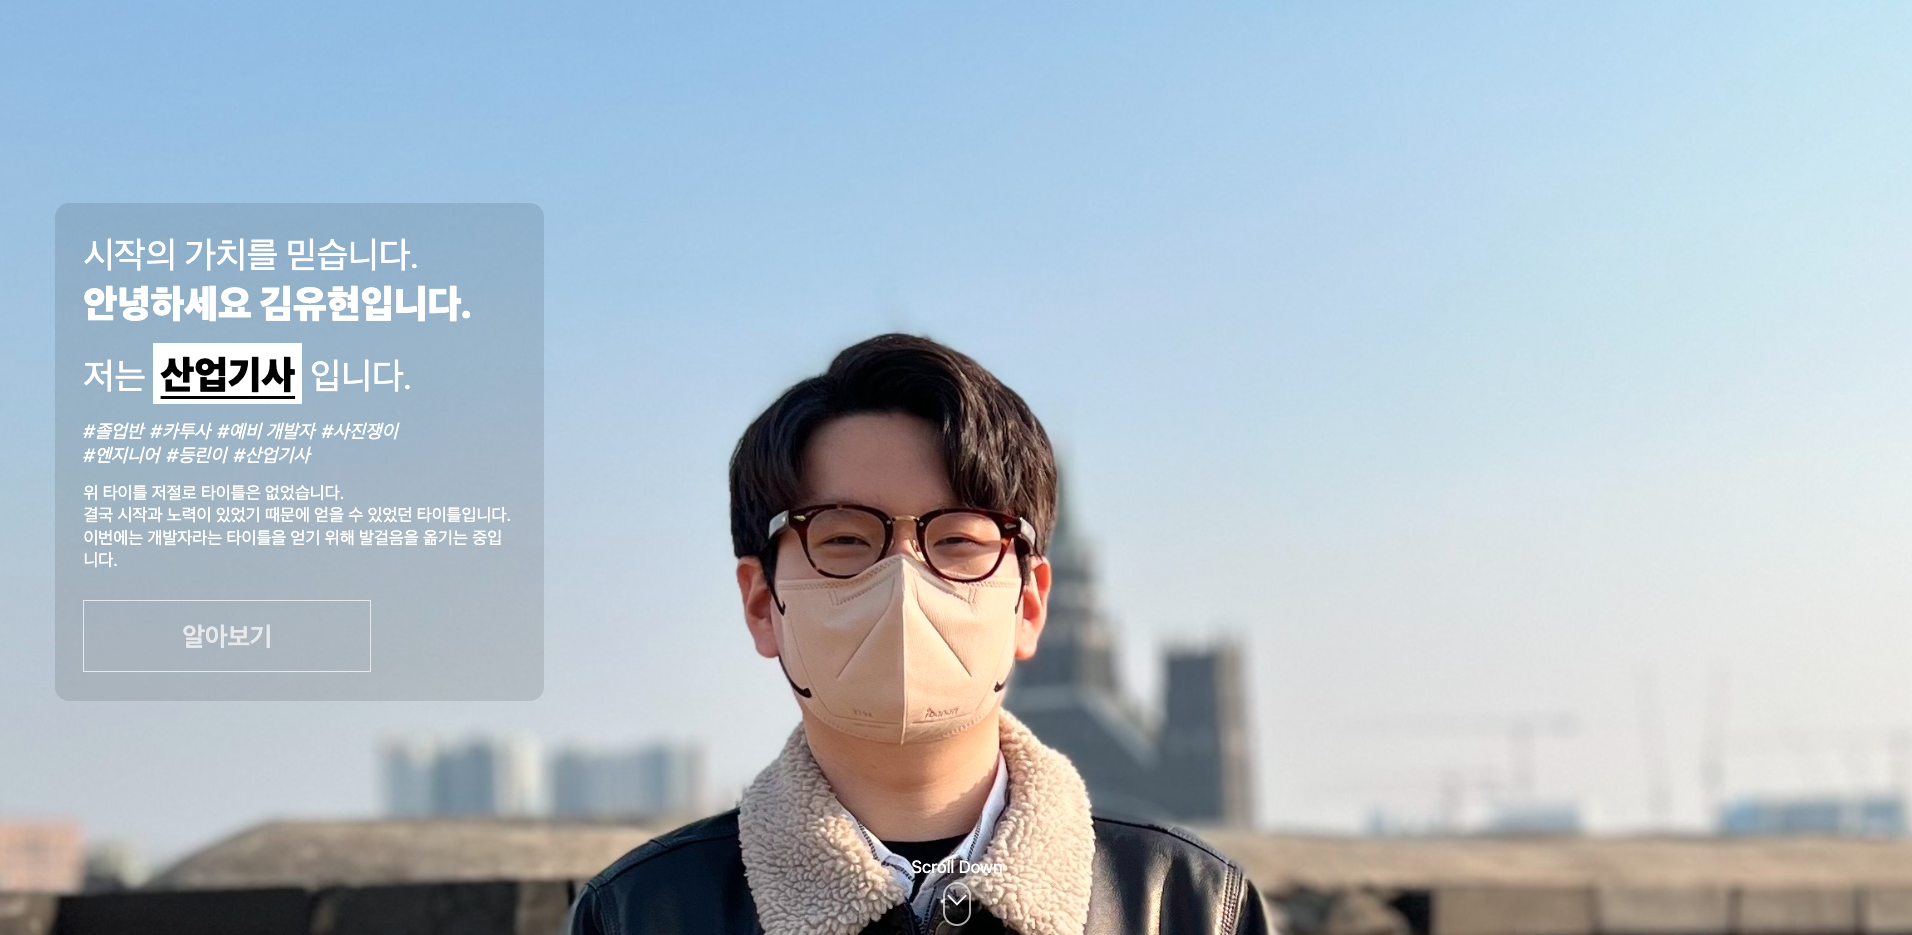
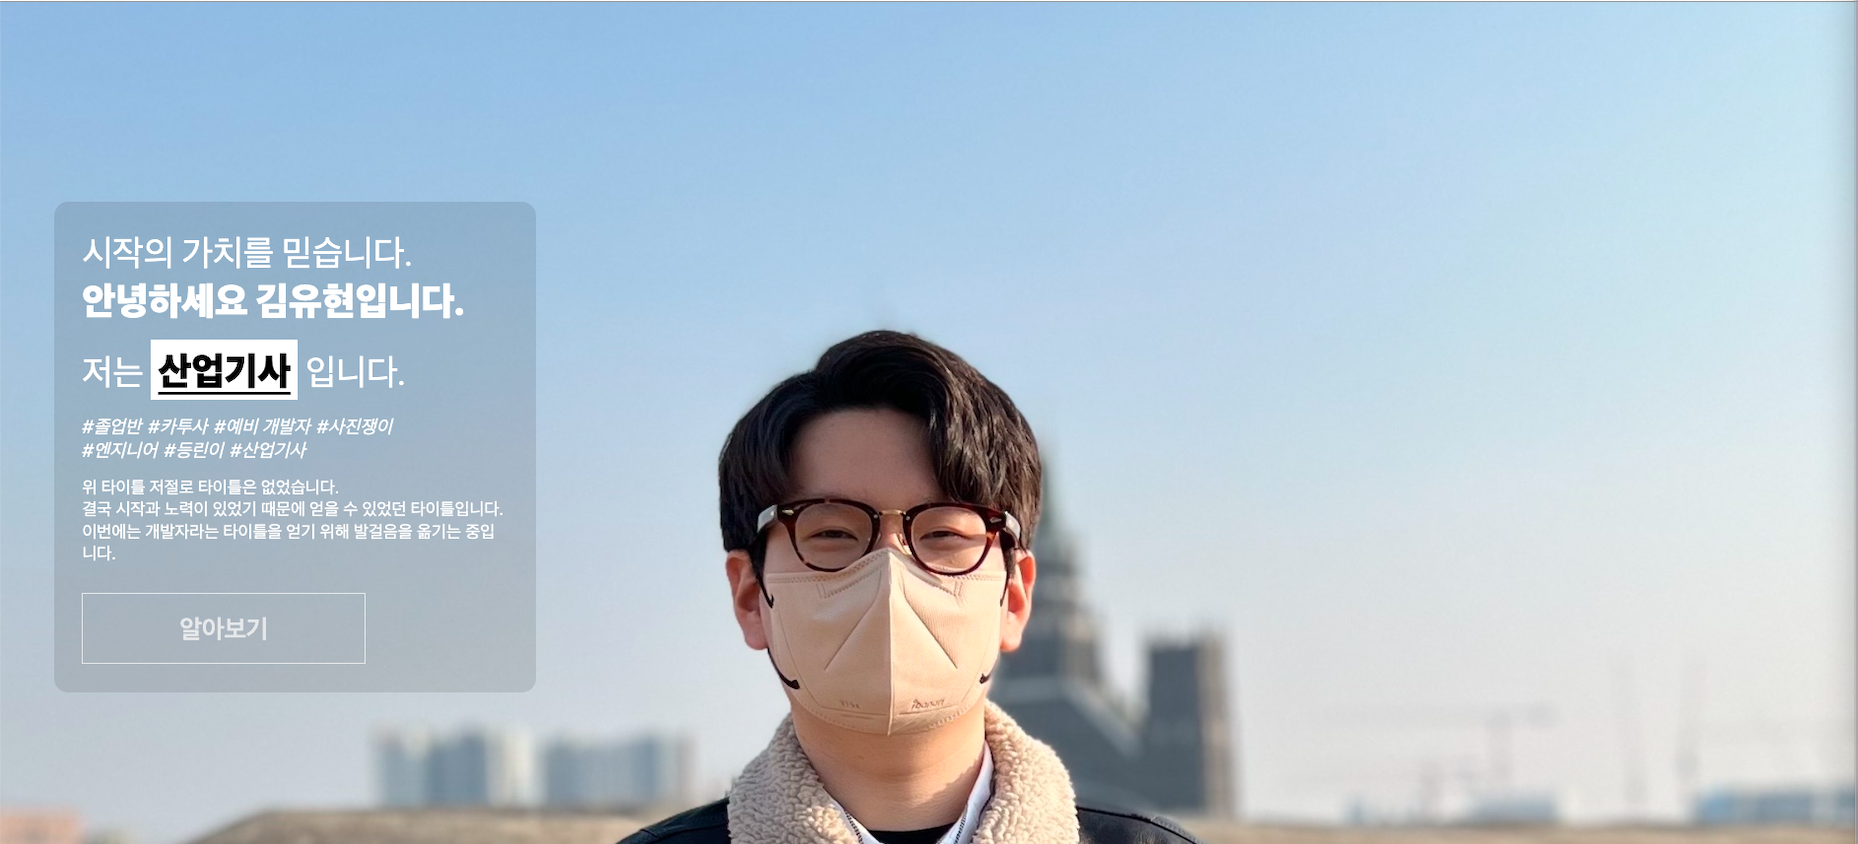
[add] scroll up button

Changed region(s): [[0.0, 0.0, 1.0, 1.0]]

diff --git a/src/components/IDoComp/IDoFrame.js b/src/components/IDoComp/IDoFrame.js
@@ -16,52 +16,54 @@ const IDoFrame = ({ project_data }) => {
   }, []);
 
   return (
-    <div className={classes.ido_container}>
-      {project_data.map(data => (
-        <section
-          key={data.id}
-          className={classes.ido_slide}
-          style={{
-            backgroundImage: `URL(${require(`../../assets/images/${data.img_name}`)})`,
-          }}
-        >
-          <div className={classes.ido_card_wrapper}>
-            <h1>&nbsp;{data.title}</h1>
-            <li>
-              <span>&nbsp;요약:</span> {data.summary}
-            </li>
-            <li>
-              <span>&nbsp;기간:</span> {data.duration}
-            </li>
-            <li>
-              <span>&nbsp;인원:</span> {data.personnel}
-            </li>
-            <li>
-              &nbsp;담당파트:
-              <ul>
-                {data.assigned.map((work, i) => (
-                  <li key={i}>&nbsp;{work}</li>
-                ))}
-              </ul>
-            </li>
-            <li>
-              &nbsp;바로가기&nbsp;
-              <div className={classes.ido_link}>
-                <a href={data.link}>
-                  <FaGithub alt="github" /> 깃허브&nbsp;
-                </a>
-                <a href={data.link1}>
-                  <SiNotion alt="github" /> 코드설명&nbsp;
-                </a>
-                <a href={data.link2}>
-                  <HiOutlineDocumentText alt="deployed" /> 시연 페이지&nbsp;
-                </a>
-              </div>
-            </li>
-          </div>
-        </section>
-      ))}
-    </div>
+    <>
+      <div className={classes.ido_container}>
+        {project_data.map(data => (
+          <section
+            key={data.id}
+            className={classes.ido_slide}
+            style={{
+              backgroundImage: `URL(${require(`../../assets/images/${data.img_name}`)})`,
+            }}
+          >
+            <div className={classes.ido_card_wrapper}>
+              <h1>&nbsp;{data.title}</h1>
+              <li>
+                <span>&nbsp;요약:</span> {data.summary}
+              </li>
+              <li>
+                <span>&nbsp;기간:</span> {data.duration}
+              </li>
+              <li>
+                <span>&nbsp;인원:</span> {data.personnel}
+              </li>
+              <li>
+                &nbsp;담당파트:
+                <ul>
+                  {data.assigned.map((work, i) => (
+                    <li key={i}>&nbsp;{work}</li>
+                  ))}
+                </ul>
+              </li>
+              <li>
+                &nbsp;바로가기&nbsp;
+                <div className={classes.ido_link}>
+                  <a href={data.link}>
+                    <FaGithub alt="github" /> 깃허브&nbsp;
+                  </a>
+                  <a href={data.link1}>
+                    <SiNotion alt="github" /> 코드설명&nbsp;
+                  </a>
+                  <a href={data.link2}>
+                    <HiOutlineDocumentText alt="deployed" /> 시연 페이지&nbsp;
+                  </a>
+                </div>
+              </li>
+            </div>
+          </section>
+        ))}
+      </div>
+    </>
   );
 };
 

diff --git a/src/pages/IDo/IDo.js b/src/pages/IDo/IDo.js
@@ -4,12 +4,14 @@ import NavContext from '../../context/nav-context';
 import IDoFrame from '../../components/IDoComp/IDoFrame';
 import PROJECT_MOCKDATA from '../../data/mock.json';
 import ScrollButton from '../../components/UI/Buttons/ScrollButton';
+import ScrollUpButton from '../../components/UI/Buttons/ScrollUpButton';
 
 const project_data = PROJECT_MOCKDATA.project;
 
 const IDo = () => {
   const navCtx = useContext(NavContext);
   const [scrollTop, setScrollTop] = useState(0);
+  const [scrollUp, setScrollUp] = useState(false);
 
   const onScroll = () => {
     const winScroll = document.documentElement.scrollTop;
@@ -24,6 +26,14 @@ const IDo = () => {
   useEffect(() => {
     window.addEventListener('scroll', onScroll);
   }, []);
+
+  useEffect(() => {
+    if (scrollTop === 100) {
+      setScrollUp(true);
+    } else {
+      setScrollUp(false);
+    }
+  }, [scrollTop]);
 
   useEffect(() => {
     navCtx.scrollHandler(1000);
@@ -43,6 +53,7 @@ const IDo = () => {
           <ScrollButton />
         </div>
       </section>
+      {scrollUp && <ScrollUpButton />}
     </>
   );
 };

diff --git a/src/components/UI/Buttons/ScrollUpButton.module.scss b/src/components/UI/Buttons/ScrollUpButton.module.scss
@@ -1,0 +1,58 @@
+.scroll_button_wrapper {
+  position: fixed;
+  bottom: 0;
+  left: 50%;
+  z-index: 2;
+  height: 7rem;
+  display: flex;
+  font-size: 1.2rem;
+  .scroll_button_section {
+    display: flex;
+    justify-content: center;
+  }
+}
+.scroll_text {
+  position: absolute;
+  bottom: 4.5rem;
+  width: 10rem;
+  text-align: center;
+}
+.scroll_to_top {
+  height: 3rem;
+  width: 3rem;
+  border: 0.2rem solid rgb(244, 244, 244, 0.7);
+  position: absolute;
+  left: 100% -1rem;
+  bottom: 1rem;
+  border-radius: 50%;
+}
+
+.scroll_to_top::after {
+  content: '';
+  position: absolute;
+  top: 20%;
+  left: 50%;
+  border: 0.2rem solid rgb(244, 244, 244);
+  height: 1rem;
+  width: 1rem;
+  transform: translate(-50%, -50%) rotate(45deg);
+  border-bottom: transparent;
+  border-right: transparent;
+  animation: scroll_down 1s ease-in-out infinite;
+}
+
+@keyframes scroll_down {
+  0% {
+    opacity: 0;
+    top: 90%;
+  }
+  30% {
+    opacity: 1;
+  }
+  60% {
+    opacity: 1;
+  }
+  100% {
+    opacity: 0;
+  }
+}

diff --git a/src/components/UI/Buttons/ScrollUpButton.js b/src/components/UI/Buttons/ScrollUpButton.js
@@ -1,0 +1,22 @@
+import React from 'react';
+import classes from './ScrollUpButton.module.scss';
+
+const ScrollUpButton = () => {
+  const handleClick = () => {
+    window.scrollTo({
+      top: 0,
+      behavior: 'smooth',
+    });
+  };
+
+  return (
+    <div className={classes.scroll_button_wrapper}>
+      <section className={classes.scroll_button_section} onClick={handleClick}>
+        <div className={classes.scroll_text}>Click to Top</div>
+        <div className={classes.scroll_to_top}></div>
+      </section>
+    </div>
+  );
+};
+
+export default ScrollUpButton;

diff --git a/src/Test/Test.js b/src/Test/Test.js
@@ -1,14 +1,12 @@
 import React, { useContext, useEffect } from 'react';
+import ScrollUpButton from '../components/UI/Buttons/ScrollUpButton';
 import classes from './Test.module.scss';
 
 const Test = () => {
   return (
     <section className={classes.test_container}>
       <div className={classes.frame}>
-        <div className={classes.scroll_button_wrapper}>
-          <div className={classes.scroll_text}>Scroll Down</div>
-          <div className={classes.scroll_down}></div>
-        </div>
+        <ScrollUpButton />
       </div>
     </section>
   );

diff --git a/src/pages/Intro/Intro.js b/src/pages/Intro/Intro.js
@@ -3,6 +3,7 @@ import FirstSlide from '../../components/IntroComp/FirstSlide';
 import SecondSlide from '../../components/IntroComp/SecondSlide';
 import ThirdSlide from '../../components/IntroComp/ThirdSlide';
 import ScrollButton from '../../components/UI/Buttons/ScrollButton';
+import ScrollUpButton from '../../components/UI/Buttons/ScrollUpButton';
 import NavContext from '../../context/nav-context';
 import SLIDE_MOCK_DATA from '../../data/mock.json';
 import classes from './Intro.module.scss';

diff --git a/src/Test/Test.module.scss b/src/Test/Test.module.scss
@@ -1,8 +1,9 @@
 .test_container {
-  height: 100vh;
+  height: 200vh;
   display: flex;
   justify-content: center;
   align-items: flex-end;
+  position: relative;
   .scroll_button_wrapper {
     width: 30rem;
     height: 7rem;
